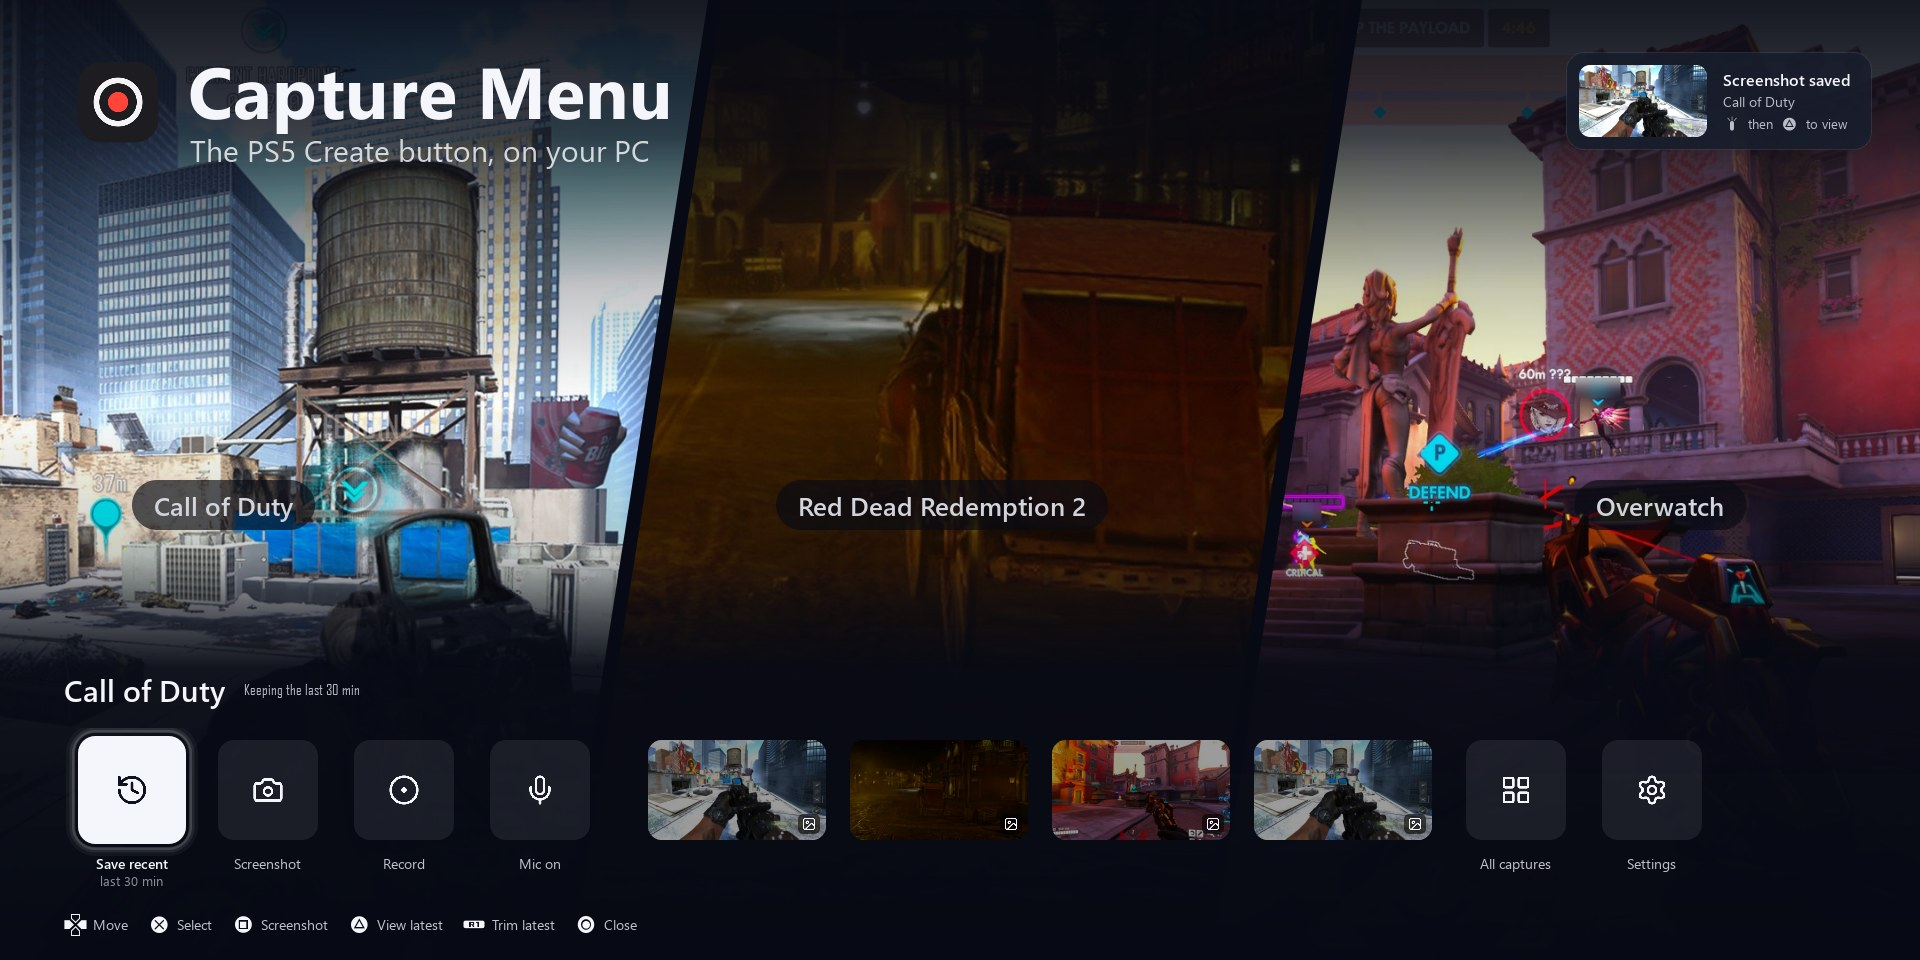
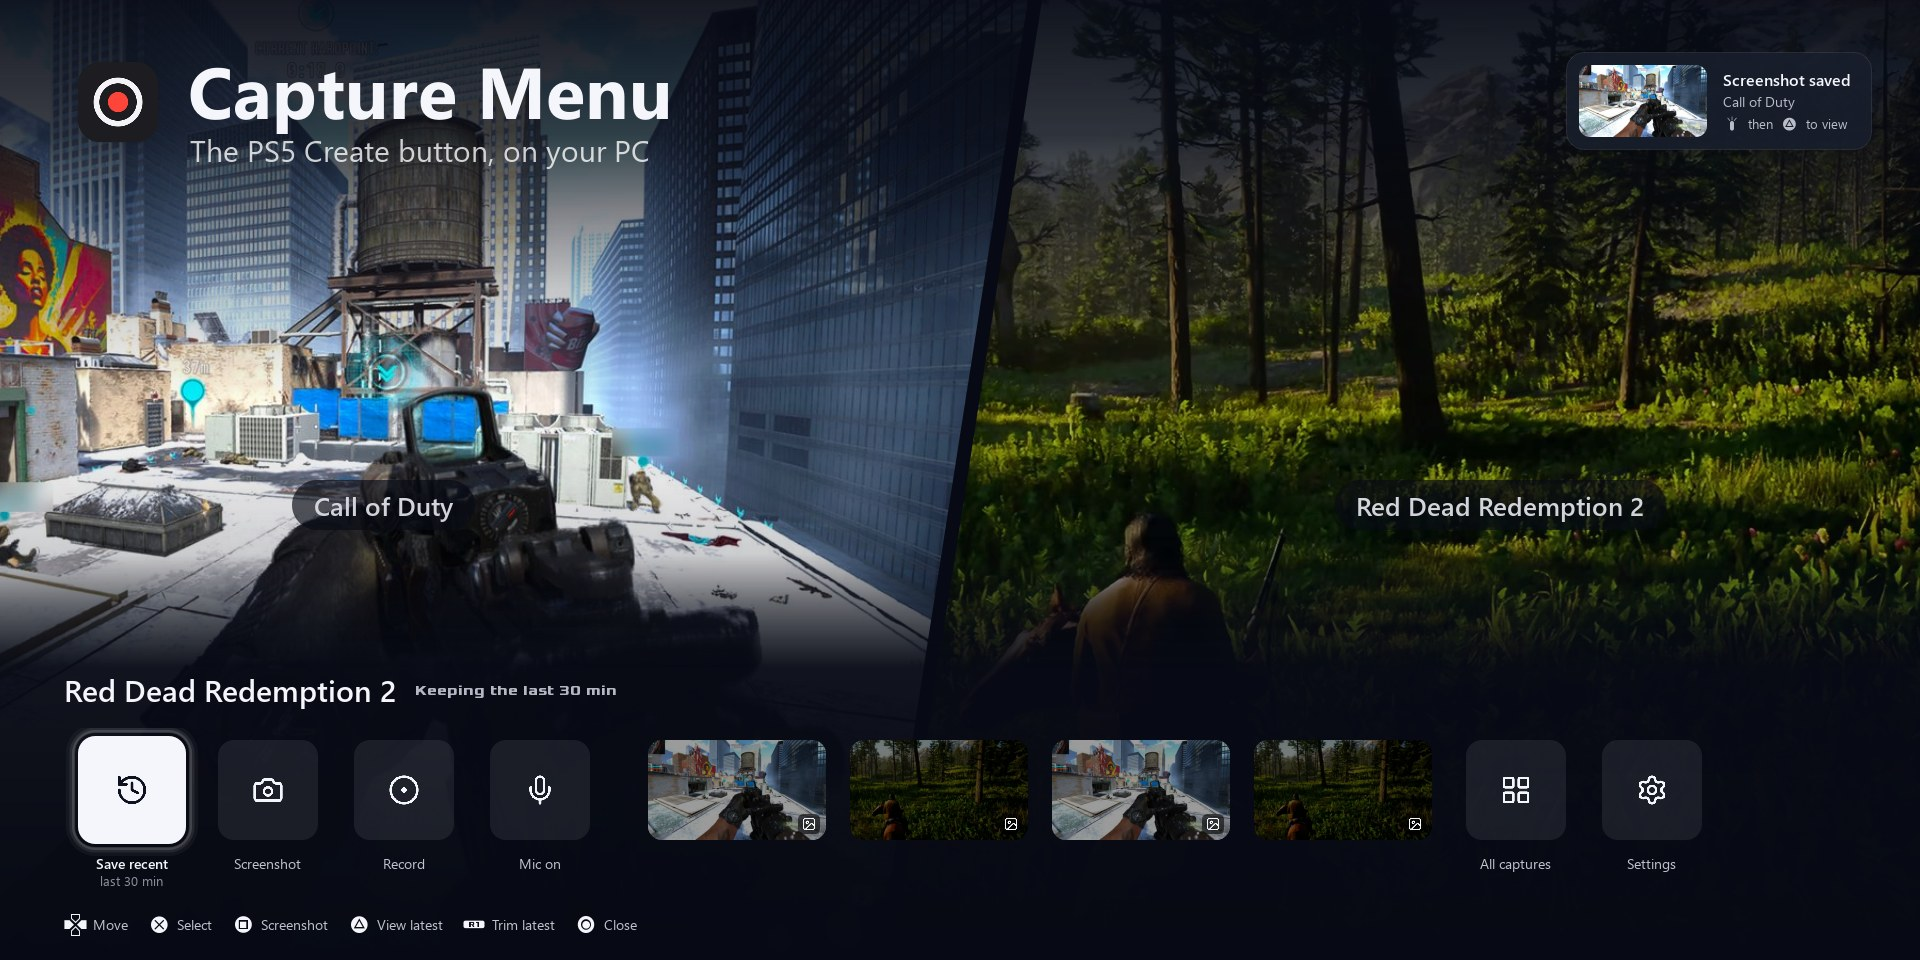
README: no Overwatch in the poster or the Captures screenshot
The poster tool takes any number of panels; the poster is now Call of Duty and Red Dead, and the
Captures page lists only those two, from real Red Dead frames and the Call of Duty screenshot.

diff --git a/tools/render_poster.py b/tools/render_poster.py
@@ -1,4 +1,4 @@
-"""Renders the README poster: three games side by side with the real Create bar and notice over them.
+"""Renders the README poster: games side by side with the real Create bar and notice over them.
 
     set QT_QPA_PLATFORM=offscreen
     set CAPTURE_MENU_SHOTS=<folder of game screenshots>   (optional, see scene.py)
@@ -28,8 +28,7 @@ preferences.STATE_PATH = Path(tempfile.mkdtemp()) / "state.json"
 W, H = 1920, 960                    # 2:1, so it also works as GitHub's social preview
 GAME = game_name("Neon Highway")
 # (mockup game, palette, seed, where the picture's subject is (0..1 across, down), zoom)
-PANELS = [("Neon Highway", "dusk", 7, 0.50, 0.5, 1.0), ("Ridge Racer X", "desert", 4, 0.40, 0.62, 1.45),
-          ("Frostfall", "snow", 2, 0.60, 0.5, 1.0)]
+PANELS = [("Frostfall", "snow", 2, 0.55, 0.5, 1.0), ("Neon Highway", "dusk", 7, 0.45, 0.5, 1.0)]
 root = Path(tempfile.mkdtemp()); work = Path(tempfile.mkdtemp()); now = time.time()
 for i, (game, pal, seed, *_) in enumerate(PANELS * 2):
     d = root / game_name(game); d.mkdir(exist_ok=True)
@@ -58,9 +57,10 @@ p = QtGui.QPainter(img)
 for hint in (QtGui.QPainter.Antialiasing, QtGui.QPainter.SmoothPixmapTransform, QtGui.QPainter.TextAntialiasing):
     p.setRenderHint(hint)
 SKEW, GAP = 150, 14
-edges = [-SKEW, W / 3, 2 * W / 3, W + SKEW]          # where the slices meet, at mid height
+n = len(PANELS)
+edges = [-SKEW] + [W * k / n for k in range(1, n)] + [W + SKEW]   # where the slices meet, at mid height
 for i, (game, pal, seed, fx, fy, zoom) in enumerate(PANELS):
-    a, b = edges[i] + (GAP / 2 if i else 0), edges[i + 1] - (GAP / 2 if i < 2 else 0)
+    a, b = edges[i] + (GAP / 2 if i else 0), edges[i + 1] - (GAP / 2 if i < n - 1 else 0)
     slice_ = QtGui.QPolygonF([QPointF(a + SKEW / 2, 0), QPointF(b + SKEW / 2, 0), QPointF(b - SKEW / 2, H), QPointF(a - SKEW / 2, H)])
     shot = draw_scene(int(H * zoom * 16 / 9), int(H * zoom), pal, seed, hud=False)
     box = slice_.boundingRect()

diff --git a/README.md b/README.md
@@ -45,7 +45,7 @@
 - **One-click install:** OBS Studio and FFmpeg are installed and set up for your PC automatically.
 
 <p align="center">
-  <img src="docs/poster.jpg" alt="Capture Menu over Call of Duty, Red Dead Redemption 2 and Overwatch">
+  <img src="docs/poster.jpg" alt="Capture Menu over Call of Duty and Red Dead Redemption 2">
 </p>
 
 | | | |
